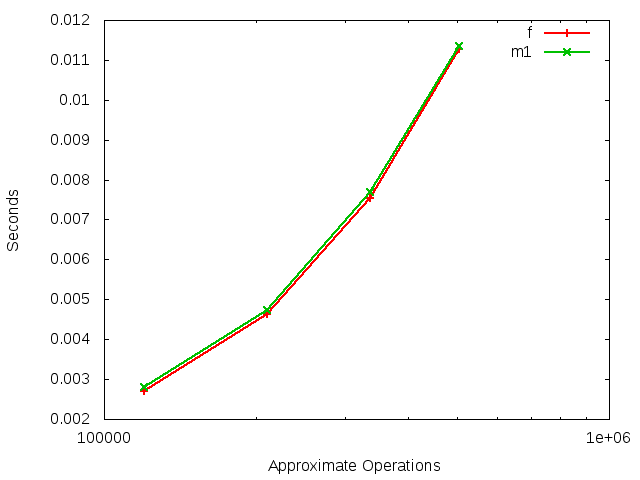
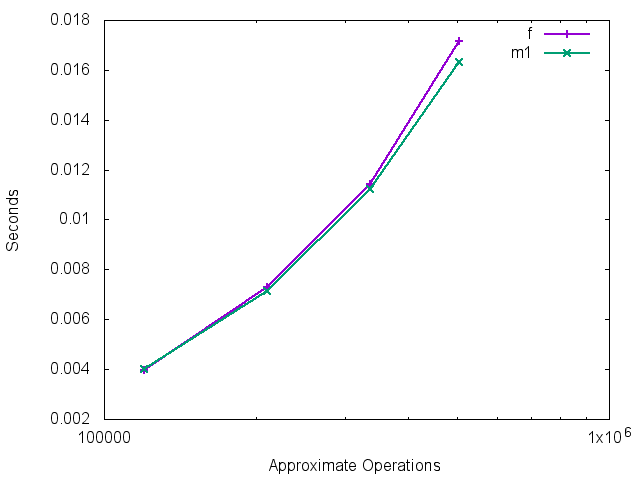
Iteration 5 again

diff --git a/homework1/src/MatrixMultiply.cpp b/homework1/src/MatrixMultiply.cpp
@@ -32,16 +32,16 @@ scottgs::FloatMatrix scottgs::MatrixMultiply::operator()(const scottgs::FloatMat
 		inner= lhs.size2();
 
 	// Transpose rhs matrix
-	scottgs::FloatMatrix rhsT = boost::numeric::ublas::trans(rhs);
+	// scottgs::FloatMatrix rhsT = boost::numeric::ublas::trans(rhs);
 
-	// scottgs::FloatMatrix rhsT(rhs.size2(), rhs.size1());
-	// int rhsT_rows = rhsT.size1(), rhsT_cols = rhsT.size2();
+	scottgs::FloatMatrix rhsT(rhs.size2(), rhs.size1());
+	int rhsT_rows = rhsT.size1(), rhsT_cols = rhsT.size2();
 
-	// for(int i = 0 ; i< rhsT_rows ; i++){
-	// 	for(int j = 0 ; j< rhsT_cols ; j++){
-	// 		rhsT(i, j) = rhs(j, i);
-	// 	}
-	// }
+	for(int i = 0 ; i< rhsT_rows ; i++){
+		for(int j = 0 ; j< rhsT_cols ; j++){
+			rhsT(i, j) = rhs(j, i);
+		}
+	}
 
 
 	// for every row in result
